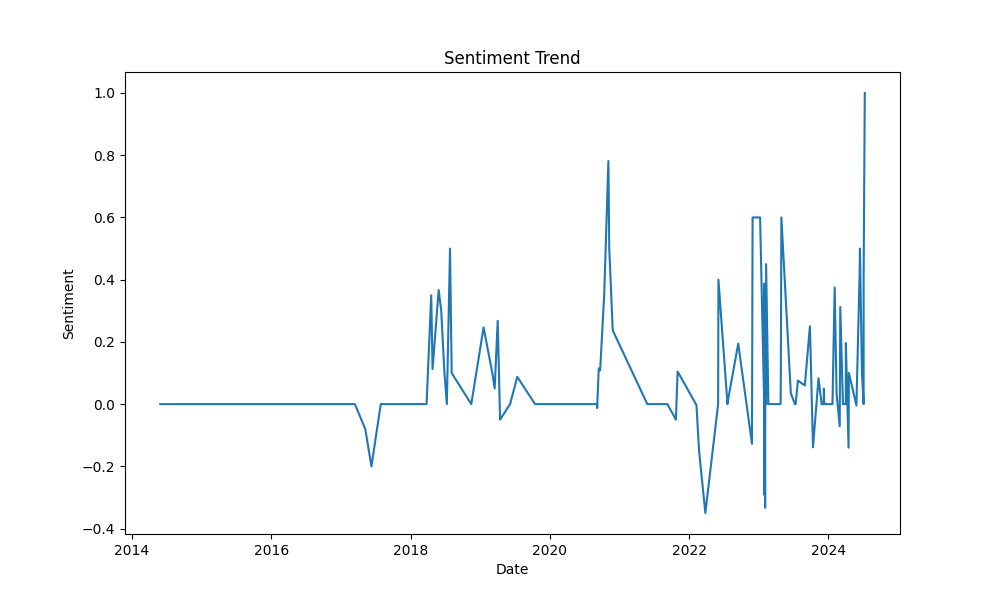
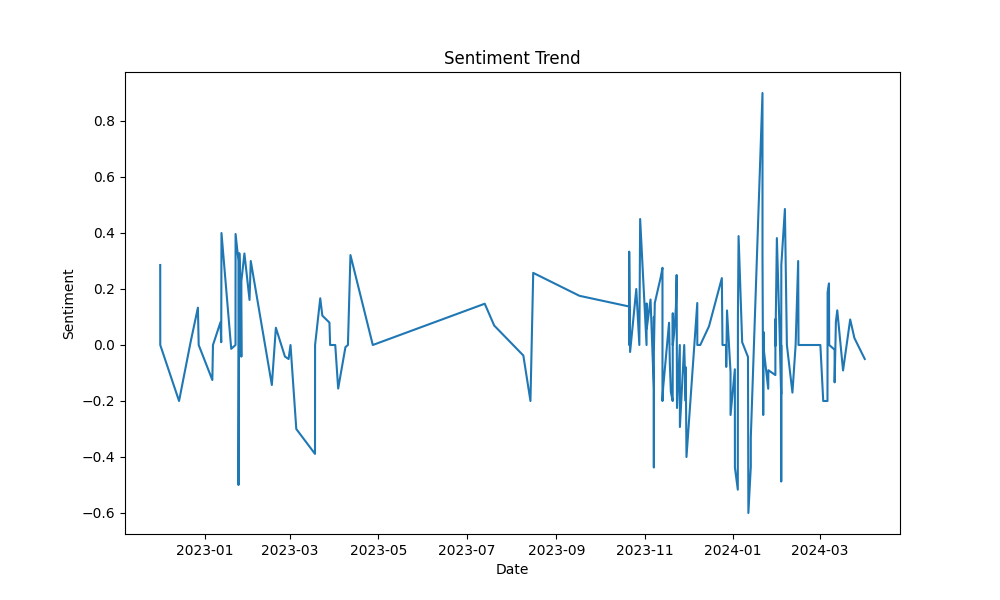
Added a date range selector

diff --git a/static/js/main.js b/static/js/main.js
@@ -5,13 +5,15 @@ document.addEventListener('DOMContentLoaded', function() {
     form.addEventListener('submit', function(e) {
         e.preventDefault();
         const playerName = document.getElementById('player-name').value;
+        const startDate = document.getElementById('start-date').value;
+        const endDate = document.getElementById('end-date').value;
 
         fetch('/analyze', {
             method: 'POST',
             headers: {
                 'Content-Type': 'application/x-www-form-urlencoded',
             },
-            body: `player_name=${encodeURIComponent(playerName)}`
+            body: `player_name=${encodeURIComponent(playerName)}&start_date=${encodeURIComponent(startDate)}&end_date=${encodeURIComponent(endDate)}`
         })
         .then(response => response.json())
         .then(data => {

diff --git a/templates/index.html b/templates/index.html
@@ -10,6 +10,8 @@
     <h1>NBA Player Sentiment Analysis</h1>
     <form id="player-form">
         <input type="text" id="player-name" name="player_name" placeholder="Enter player name" required>
+        <input type="date" id="start-date" name="start_date" placeholder="Start Date">
+        <input type="date" id="end-date" name="end_date" placeholder="End Date">
         <button type="submit">Analyze</button>
     </form>
     <div id="results"></div>

diff --git a/app.py b/app.py
@@ -2,7 +2,7 @@ from flask import Flask, render_template, request, jsonify
 from utils.reddit_scraper import get_reddit_data
 from utils.sentiment_analyzer import analyze_sentiment
 from utils.data_visualizer import create_sentiment_chart, create_word_cloud
-from config.config import REDDIT_CLIENT_ID, REDDIT_CLIENT_SECRET, REDDIT_USER_AGENT
+from datetime import datetime
 
 app = Flask(__name__)
 
@@ -13,12 +13,24 @@ def index():
 @app.route('/analyze', methods=['POST'])
 def analyze():
     player_name = request.form.get('player_name')
+    start_date = request.form.get('start_date')
+    end_date = request.form.get('end_date')
+
     if not player_name:
         return jsonify({'error': 'Player name is required'}), 400
 
     try:
+        start_date = datetime.strptime(start_date, '%Y-%m-%d') if start_date else None
+        end_date = datetime.strptime(end_date, '%Y-%m-%d') if end_date else None
+
         reddit_data = get_reddit_data(player_name)
         sentiment_data = analyze_sentiment(reddit_data)
+        
+        # Filter sentiment_data based on date range
+        if start_date and end_date:
+            sentiment_data = [(date, sentiment) for date, sentiment in sentiment_data 
+                              if start_date <= date <= end_date]
+
         chart_path = create_sentiment_chart(sentiment_data)
         word_cloud_path = create_word_cloud(reddit_data)
 

diff --git a/utils/data_visualizer.py b/utils/data_visualizer.py
@@ -3,6 +3,9 @@ from wordcloud import WordCloud
 import os
 
 def create_sentiment_chart(sentiment_data):
+    if not sentiment_data:
+        return '/static/images/no_data.png'  # Create this image to show when there's no data
+    
     dates, sentiments = zip(*sentiment_data)
     plt.figure(figsize=(10, 6))
     plt.plot(dates, sentiments)
@@ -15,6 +18,7 @@ def create_sentiment_chart(sentiment_data):
     plt.close()
     
     return '/' + chart_path
+
 
 def create_word_cloud(reddit_data):
     text = ' '.join([post['title'] + ' ' + post['text'] for post in reddit_data])

diff --git a/utils/reddit_scraper.py b/utils/reddit_scraper.py
@@ -11,7 +11,7 @@ def get_reddit_data(player_name):
     subreddit = reddit.subreddit('nba')
     posts = []
 
-    for submission in subreddit.search(player_name, limit=100):
+    for submission in subreddit.search(player_name, limit=250):
         posts.append({
             'title': submission.title,
             'text': submission.selftext,
